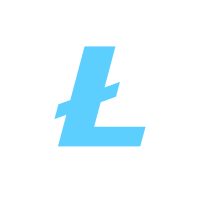
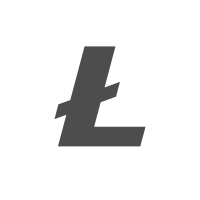
updated favicion. added gradient to header

Changed region(s): [[0.27, 0.21, 0.75, 0.75]]

diff --git a/themes/hugo-agency-theme/static/sass/_nav.scss b/themes/hugo-agency-theme/static/sass/_nav.scss
@@ -5,6 +5,7 @@
   background-color: #fff;
 
 
+
   .navbar-brand {
     font-family: "Roboto",Helvetica,Arial;
     font-weight: lighter;
@@ -23,11 +24,12 @@
 
   }
   &.navbar-shrink  {
-    box-shadow: 0px 2px 2px rgba(0, 0, 0, 0.08);
+    box-shadow: 0px 0px 5px rgba(0, 0, 0, 0.1);
+    background:#fff;
   }
 
   &.navbar-shrink .navbar-brand .navbar-logo {
-    margin-top:0em;
+    margin-top:-0.06em;
   }
 
   .navbar-brand:hover,
@@ -91,6 +93,7 @@
       border: 0;
       background-color: transparent;
       transition: padding .3s;
+      background: linear-gradient(top, rgba(0, 0, 0, 0.2), rgba(0, 0, 0, 0));
 
       .navbar-brand .navbar-logo {
         filter: brightness(150%);

diff --git a/themes/hugo-agency-theme/layouts/partials/head.html b/themes/hugo-agency-theme/layouts/partials/head.html
@@ -15,7 +15,7 @@
 {{ "<!-- Custom Fonts -->" | safeHTML }}
 <link href="{{ .Site.BaseURL }}font-awesome/css/font-awesome.min.css" rel="stylesheet" type="text/css">
 {{ with not .Site.Params.disableFonts }}
-  <link href="https://fonts.googleapis.com/css?family=Roboto:100,400,700" rel="stylesheet">
+  <link href="https://fonts.googleapis.com/css?family=Roboto:300,400,700" rel="stylesheet">
 
 {{ end }}
 

diff --git a/README.md b/README.md
@@ -1,3 +1,5 @@
 # litecoin.org
 
-hugo server --buildDrafts -w
+npm i
+npm start
+hugo serve
